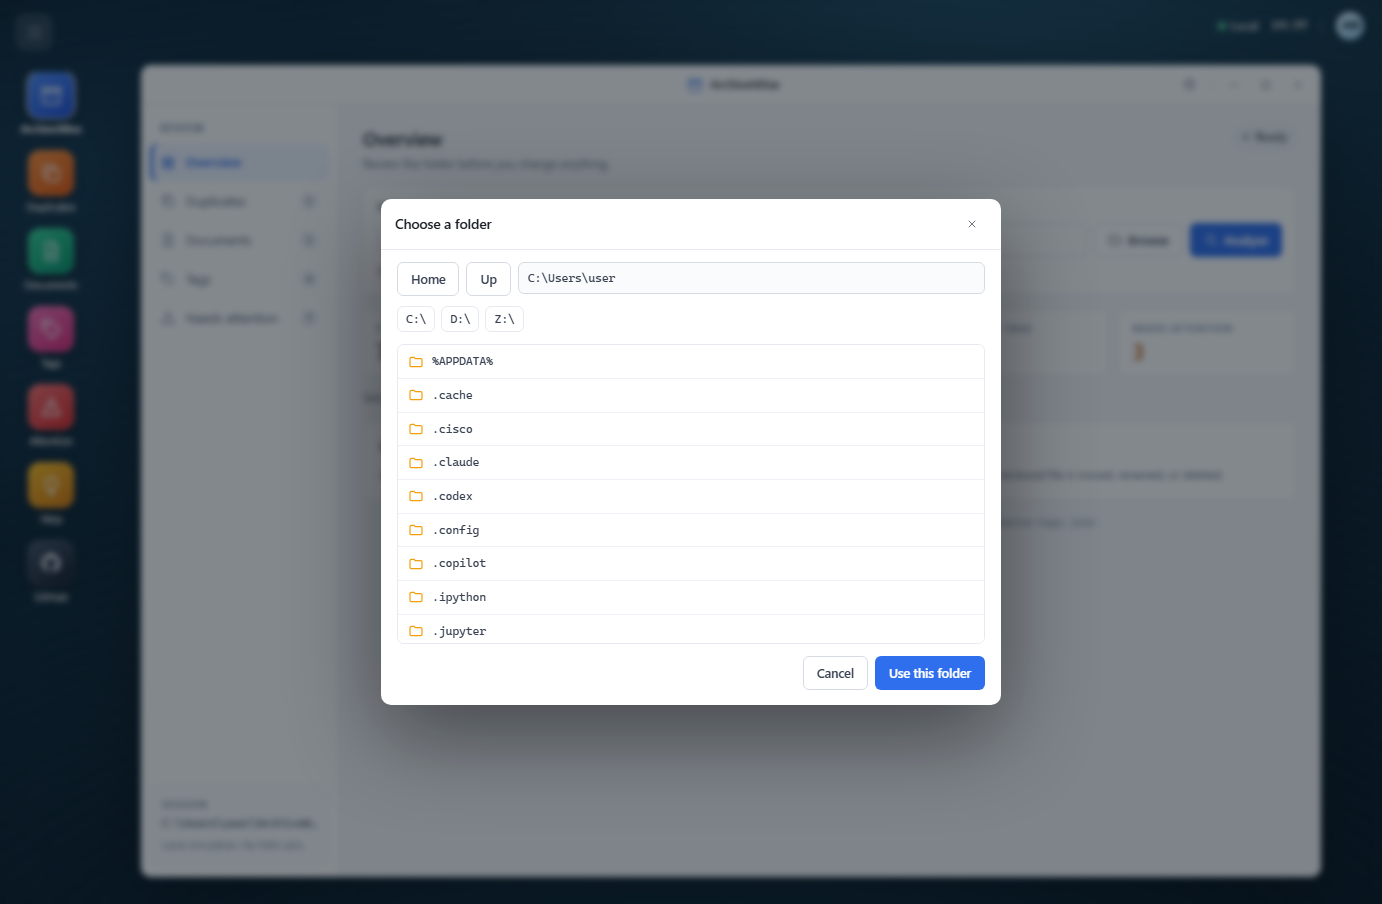
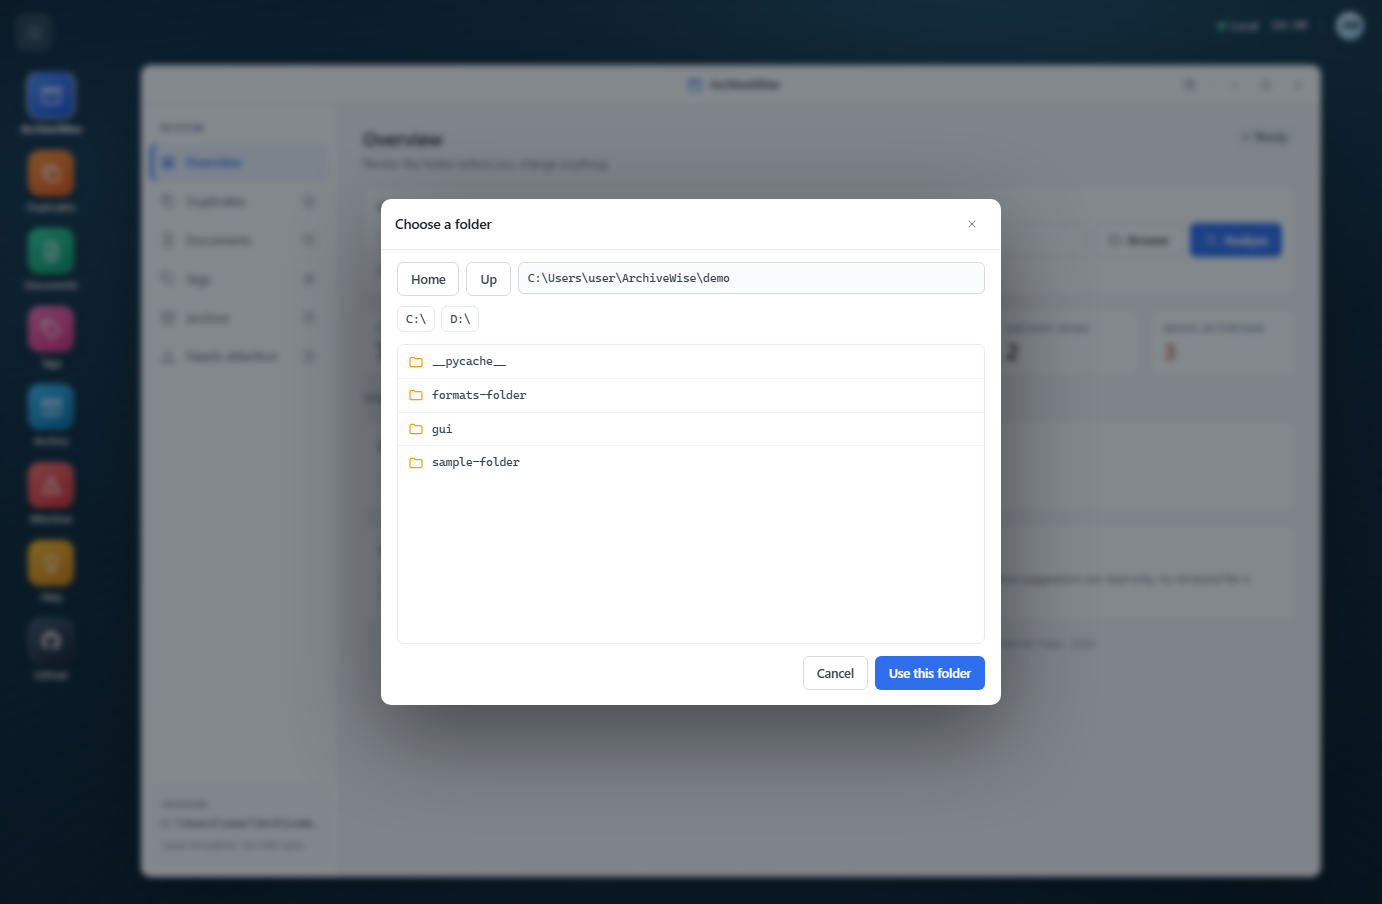
Refresh Browse screenshot and document new file-type features in setup

diff --git a/SETUP.md b/SETUP.md
@@ -2,6 +2,15 @@
 
 This guide is for instructors and reviewers who want to run the local ArchiveWise demo and inspect the Round 1 submission. It is not required for the NAS Skill runtime.
 
+## What this build includes
+
+- **Separate pages** for Overview, Duplicates, Documents, Tags, Archive, and Needs attention.
+- **Top 20 file type recognition**: PDF, DOCX, DOC, XLSX, XLS, PPTX, PPT, TXT, CSV, MD, JSON, XML, HTML, RTF, JPG, JPEG, PNG, GIF, MP4, and MP3.
+- **Documents** extracts text, Word, Excel, PowerPoint, HTML, CSV, RTF, JSON, XML, and Markdown. PDF is optional via `pypdf`. Images, video, and audio appear under **Other files recognized**.
+- **Tags** proposes project tags plus generic `image`, `video`, and `audio` type tags.
+- **Archive** lists read-only archive suggestions and duplicate groups to resolve. No files are moved.
+- **Browse** opens an in-app folder browser at the parent of the current folder. It lists local and removable drives only; disconnected network drives are excluded so the picker cannot hang.
+
 ## 1. Prerequisites
 
 - Windows 10/11, macOS, or Linux
@@ -149,7 +158,7 @@ The checker is read-only. It validates the package structure and catalog mapping
 | `python` is not recognized | Install Python 3.12 and enable "Add python.exe to PATH". Try `py -3` instead. |
 | Port 8765 is already in use | Run `python demo\gui_server.py --port 9000`. |
 | The browser does not open | Open <http://127.0.0.1:8765/> manually, or use `--no-browser`. |
-| Browse shows no subfolders | That folder has no subfolders. Use **Home** or **Up**, or paste a path. |
+| Browse shows no subfolders | The picker opens at the parent of the current folder. Use **Home** or **Up**, or select a subfolder. Disconnected network drives are not listed. |
 | The page looks stale | Refresh; the server sends `Cache-Control: no-store`. |
 | The tag file is missing | It is inside the reviewed folder, named `archivewise-tags.json`. |
 | PDF is under "Needs attention" | Install optional PDF support: `python -m pip install -r demo\requirements.txt`. |

diff --git a/README.md b/README.md
@@ -21,7 +21,7 @@ ArchiveWise is a Uliya Skill for the UGREEN NAS Skill Hackathon 2026 (Track: **A
 
 ## Screenshots
 
-The GUI opens on the Overview page above; every Review item has its own page. The demo recognizes the top 20 common file extensions, extracts text, Word, Excel, PowerPoint, HTML, CSV, RTF, JSON, XML, Markdown, and optional PDF documents, and identifies images, video, and audio.
+The GUI opens on the Overview page above; every Review item has its own page. The demo recognizes the top 20 common file extensions, extracts text, Word, Excel, PowerPoint, HTML, CSV, RTF, JSON, XML, Markdown, and optional PDF documents, and identifies images, video, and audio. The folder browser opens at the parent of the current folder and lists local drives only.
 
 <p align="center">
   <img src="demo/archivewise-pages-duplicates.png" width="49%" alt="Duplicates page">

diff --git a/demo/README.md b/demo/README.md
@@ -35,6 +35,8 @@ The browser opens at <http://127.0.0.1:8765/>.
 4. On the **Tags** page, tick the tags you approve and press **Approve selected**.
 5. Approved tags are recorded in `archivewise-tags.json` inside the reviewed folder.
 
+The folder browser opens at the parent of the current folder and lists local/removable drives only. Disconnected network drives are skipped so the picker cannot hang.
+
 ![Tags page with the approval bar](archivewise-pages-tags.png)
 
 ![Archive suggestions page](archivewise-pages-archive.png)
